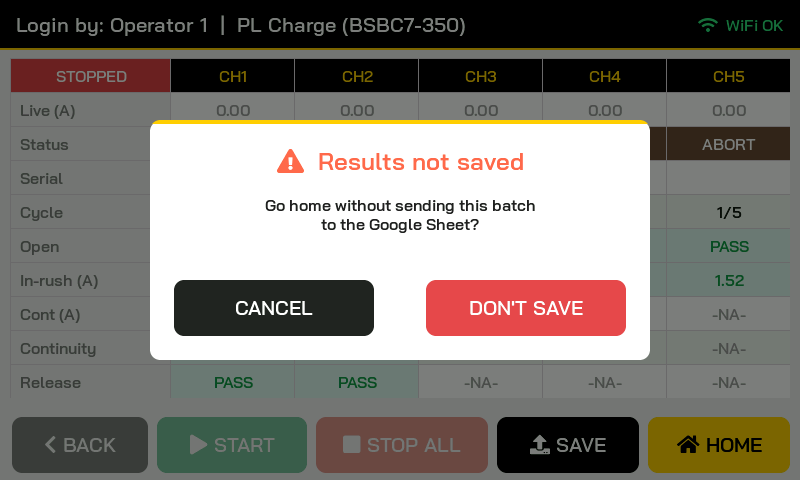
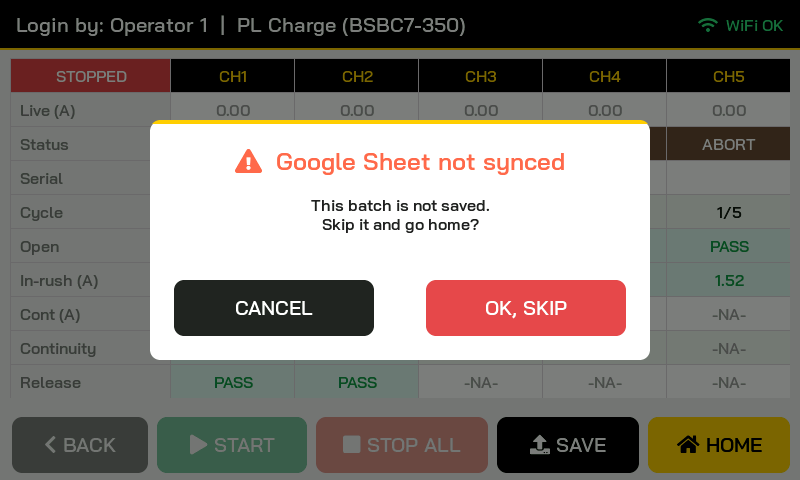
HOME interlock popup: 'Google Sheet not synced' with CANCEL / OK, SKIP
Claude-Session: https://claude.ai/code/session_01LXTvxhwrQucbbkRLzNXi3e

Changed region(s): [[0.2812, 0.3125, 0.7188, 0.375], [0.3125, 0.4062, 0.6875, 0.5], [0.5625, 0.625, 0.75, 0.6562]]

diff --git a/hmi/src/ui/ui_test.cpp b/hmi/src/ui/ui_test.cpp
@@ -296,8 +296,8 @@ static void save_cb(lv_event_t *) {
 }
 
 // ---------------------------------------------------------------------------
-// HOME: back to the model / serial page for the next batch. Unsaved results
-// need a confirmation, then they are discarded.
+// HOME interlock: after SAVE it goes straight to the model / serial page.
+// Without SAVE it asks first: OK skips (results discarded), CANCEL stays here.
 // ---------------------------------------------------------------------------
 
 static lv_obj_t *s_confirm_ov = nullptr;
@@ -335,17 +335,17 @@ static void home_cb(lv_event_t *) {
   s_confirm_ov = overlay();
   lv_obj_t *p = panel(s_confirm_ov, 500, 240);
   lv_obj_t *t = lv_label_create(p);
-  lv_label_set_text(t, LV_SYMBOL_WARNING "  Results not saved");
+  lv_label_set_text(t, LV_SYMBOL_WARNING "  Google Sheet not synced");
   lv_obj_set_style_text_font(t, FONT_L, 0);
   lv_obj_set_style_text_color(t, COL_WARN_TXT, 0);
   lv_obj_align(t, LV_ALIGN_TOP_MID, 0, 4);
   lv_obj_t *m = lv_label_create(p);
-  lv_label_set_text(m, "Go home without sending this batch\nto the Google Sheet?");
+  lv_label_set_text(m, "This batch is not saved.\nSkip it and go home?");
   lv_obj_set_style_text_align(m, LV_TEXT_ALIGN_CENTER, 0);
   lv_obj_align(m, LV_ALIGN_TOP_MID, 0, 52);
   lv_obj_t *c = ui_btn(p, "CANCEL", COL_NEUTRAL, 200, BTN_H, cancel_cb, nullptr);
   lv_obj_align(c, LV_ALIGN_BOTTOM_LEFT, 0, 0);
-  lv_obj_t *d = ui_btn(p, "DON'T SAVE", COL_FAIL, 200, BTN_H, discard_cb, nullptr);
+  lv_obj_t *d = ui_btn(p, "OK, SKIP", COL_FAIL, 200, BTN_H, discard_cb, nullptr);
   lv_obj_align(d, LV_ALIGN_BOTTOM_RIGHT, 0, 0);
 }
 

diff --git a/hmi/src/config.h b/hmi/src/config.h
@@ -4,7 +4,7 @@
 // Firmware-wide constants. Change values here, not scattered in the code.
 // ---------------------------------------------------------------------------
 
-#define FW_VERSION "0.3.2"
+#define FW_VERSION "0.3.3"
 
 #define NUM_CH 5             // test channels (contactor slots)
 #define MAX_MODELS 8

diff --git a/hmi/README.md b/hmi/README.md
@@ -51,7 +51,7 @@ INA219 or sub-board is wired. The header shows `SIM` while the simulation is act
 5. **SAVE** (enabled when every channel has finished, or after STOP ALL) sends the batch to the
    Google Sheet. Results stay in RAM until then; nothing is uploaded during a test.
 6. **HOME** goes back to the model page for the next batch. If the batch was not saved it asks
-   first, and **DON'T SAVE** throws the results away.
+   first ("Google Sheet not synced"): **OK, SKIP** throws the results away, **CANCEL** stays on the page.
 7. While a channel rests between cycles its Status shows **WAIT**, and **RUN** again when the next cycle starts.
 8. **ADMIN** (password `100100`): enter WiFi credentials, toggle relays manually, view system info.
 
